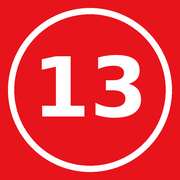
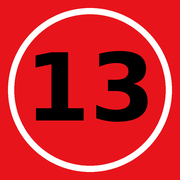
Show a black 13 on the red candidate badge.
Drop the visible 號次 from the hero circle and use black digits on the #E8141B fill, including the favicon and share image. The white ring, size, and position stay the same.

Changed region(s): [[0.5278, 0.2778, 0.8333, 0.6944], [0.1944, 0.2778, 0.4722, 0.6944]]

diff --git a/index.html b/index.html
@@ -66,8 +66,7 @@
             width: 35%;
             container-type: inline-size;
         }
-        .candidate-badge-label { font-size: 13cqw; }
-        .candidate-badge-num { font-size: 46cqw; }
+        .candidate-badge-num { font-size: 58cqw; }
     </style>
 </head>
 <body class="bg-[#fdfbf7] text-[#292524] antialiased selection:bg-amber-800 selection:text-white">
@@ -168,9 +167,8 @@
                                         class="block w-full h-[480px] sm:h-[560px] object-cover rounded-2xl shadow-inner"
                                     />
                                 </picture>
-                                <div class="candidate-badge pointer-events-none absolute z-10 flex aspect-square flex-col items-center justify-center rounded-full border-2 border-white bg-[#E8141B] text-white shadow-lg" role="img" aria-label="號次 13 號">
-                                    <span class="candidate-badge-label font-bold leading-none tracking-[0.18em] text-white" aria-hidden="true">號次</span>
-                                    <span class="candidate-badge-num font-black leading-none tracking-tight" aria-hidden="true">13</span>
+                                <div class="candidate-badge pointer-events-none absolute z-10 flex aspect-square items-center justify-center rounded-full border-2 border-white bg-[#E8141B] shadow-lg" role="img" aria-label="號次 13 號">
+                                    <span class="candidate-badge-num font-black leading-none tracking-tight text-black" aria-hidden="true">13</span>
                                 </div>
                             </div>
                             <div class="absolute bottom-6 left-6 right-6 bg-stone-950/80 backdrop-blur-md p-3.5 rounded-2xl border border-stone-800 text-center">
